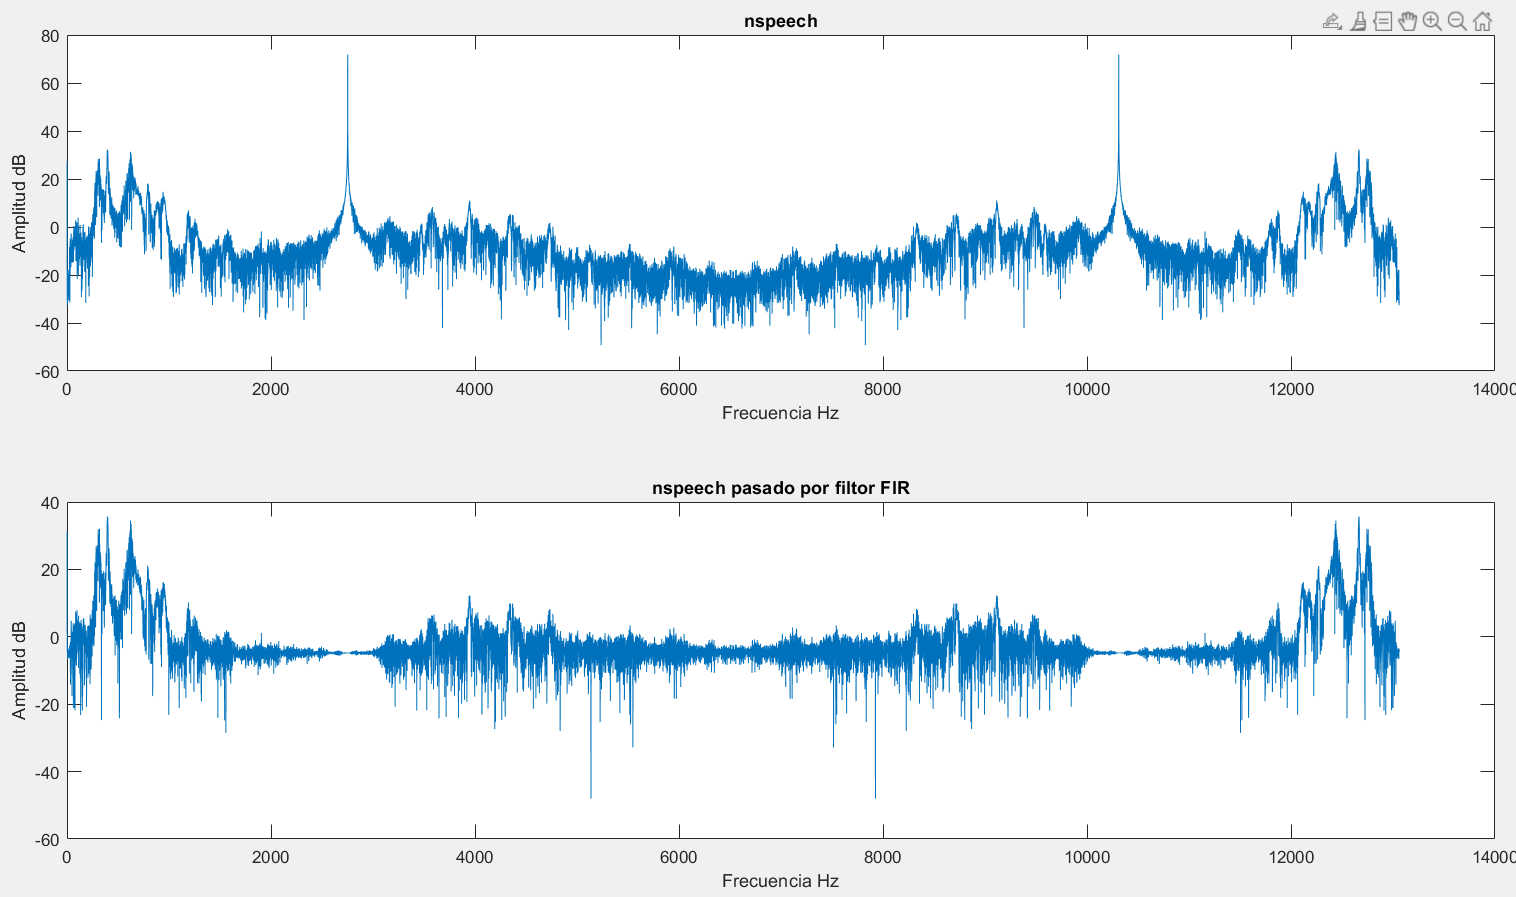
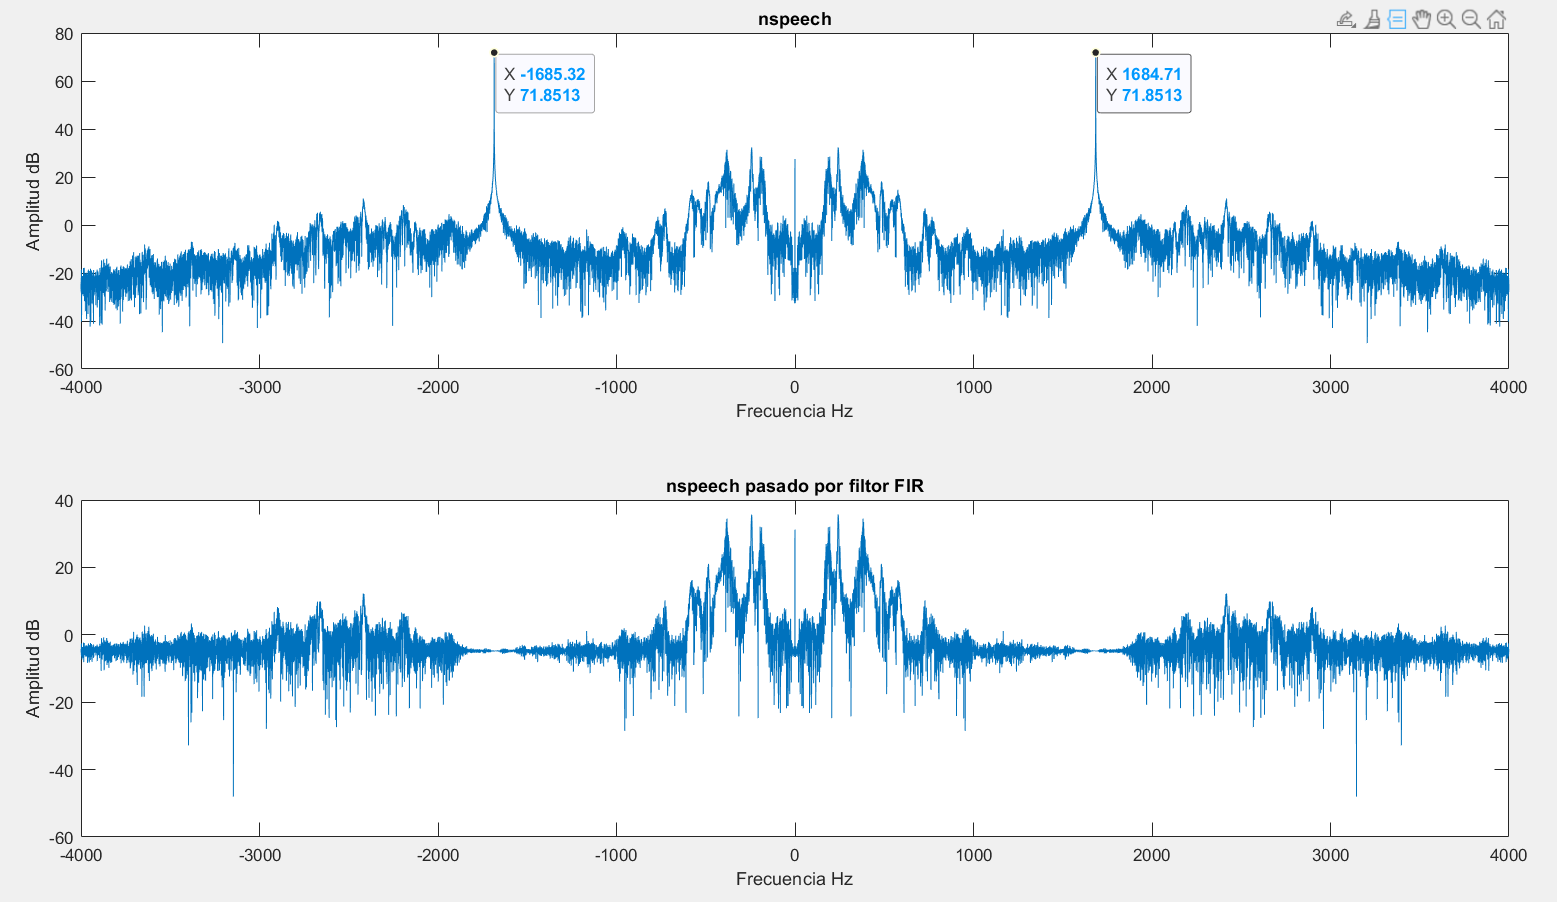
aaaaa
aaaa

diff --git a/lab3dsp_G7_Aguilera_Huidobro/LabP1/scripts/Parte1.m b/lab3dsp_G7_Aguilera_Huidobro/LabP1/scripts/Parte1.m
@@ -53,13 +53,14 @@ load('nspeech.mat');
 frec = 1685;
 fn = 1685/4000 * pi;
 senal_filtrada = filtro1(nspeech,fn);
+f_vector= -4000:2*4000/length(nspeech):4000-4000/length(nspeech);
 subplot 211
-plot(20*log10(abs(fft(nspeech))))
+plot(f_vector,20*log10(abs(fftshift(fft(nspeech)))))
 xlabel('Frecuencia Hz')
 ylabel('Amplitud dB')
 title('nspeech')
 subplot 212
-plot(20*log10(abs(fft(senal_filtrada))))
+plot(f_vector,20*log10(abs(fftshift(fft(senal_filtrada)))))
 xlabel('Frecuencia Hz')
 ylabel('Amplitud dB')
 title('nspeech pasado por filtor FIR')
